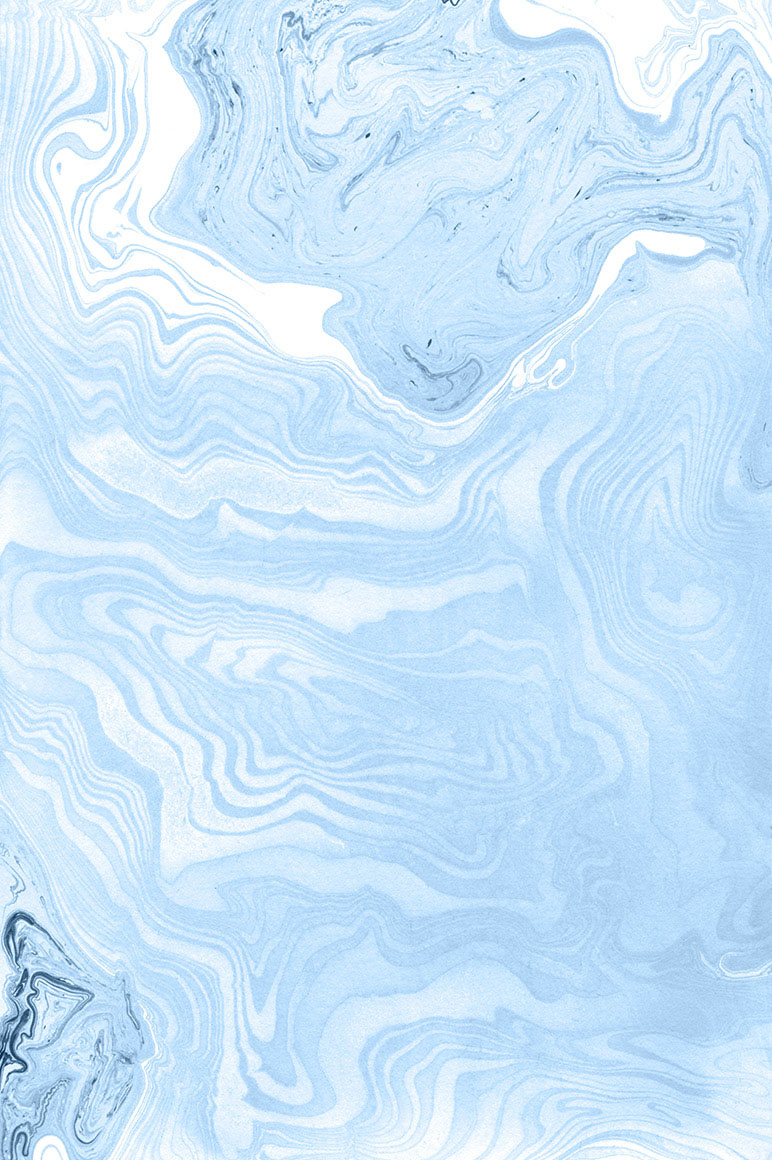
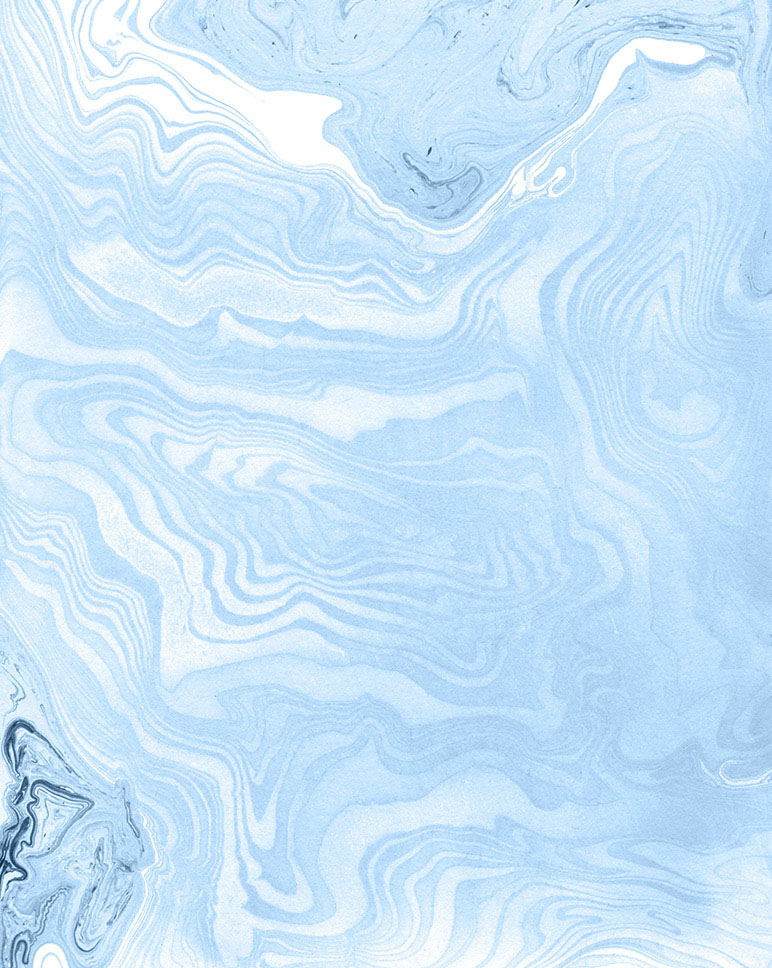
finish result layout

diff --git a/assets/css/style.css b/assets/css/style.css
@@ -22,6 +22,14 @@ body {
     -o-background-size: cover;
     -webkit-transition-timing-function: background 1.5s linear;
     transition: background 1s linear;
+
+ 
+    -webkit-transition: -webkit-transform  background 1.5s linear;
+
+    -moz-transition: -moz-transform  background 1.5s linear;
+
+    transition: -webkit-transform  background 1.5s linear;
+    
 }
 
 .vnTxt {
@@ -82,7 +90,7 @@ h1#vn {
     font-family: 'Atmostphere', Arial, sans-serif;
     letter-spacing: 1.2em;
     font-size: 100px;
-    color: #FF8C22;
+    color: #FE7900;
     position: absolute;
     margin: 160px auto 0 -412px;
     top: 0;
@@ -91,12 +99,9 @@ h1#vn {
     left: 0px;
 }
 
-br.test {
-    display: none;
-}
 
 .fa-play {
-    color: #FF8C22;
+    color: #FE7900;
     /* color: #FEE098; */
     animation: pulse2 .4s infinite;
     cursor: pointer!important;
@@ -132,13 +137,13 @@ p.multiChoice::after {
 }
 
 h1.countDown {
-    color: #FF8C22;
+    color: #FE7900;
     font-weight: 600;
     margin-top: 15px;
 }
 
 .abcd {
-    color: #FF8C22;
+    color: #FE7900;
     font-weight: bold;
     padding-bottom: 5px;
 }
@@ -168,7 +173,68 @@ p#correctAns {
 }
 
 
-/*-------------MEDIA QUERIES-------------*/
+
+/* ===========result section ========== */
+
+#resultBox {
+    width: 230px;
+    height: 450px;
+    border: solid 1.5px #fff;
+    position: absolute;
+    margin: auto;
+    top: -80px;
+    right: 0;
+    bottom: 0;
+    left: 0;
+
+}
+
+
+h4#result {
+    font-size: 15px;
+    letter-spacing: 0.15em;
+    color: #fff;
+    text-align: justify;
+    text-transform: uppercase;
+    line-height: 2.2em;
+    margin: 25px auto 0px 20px;
+  
+}
+
+h4#again{
+    font-size: 15px;
+    color: #fff;
+    text-align: center;
+    text-transform: uppercase;
+    line-height: 3em;
+    top: 97%;
+    left: 48.5%;
+    position: absolute;
+    -ms-transform: translate(-48%, -48%);
+    transform: translate(-48%, -48%);
+
+}
+
+h1#resultTxt {
+    text-transform: uppercase;
+    text-align: center;
+    font-family: 'Atmostphere', Arial, sans-serif;
+    letter-spacing: 1.25em;
+    font-size: 100px;
+    color: #FE7900;
+    position: absolute;
+    margin:200px auto 0 -430px;
+    top: 0;
+    right: 0;
+    bottom: 0;
+    left: 0px;
+}
+
+
+
+
+
+/*================================================ MEDIA QUERIES ================================================*/
 /* Custom, iPhone Retina */
 @media only screen and (max-width: 320px) {
     
@@ -191,16 +257,27 @@ p#correctAns {
             line-height: 80px!important;
             margin: 150px auto 0 15px!important;
             text-align: center!important;
-            color:#FF8C22;
+            color:FE7900;
 
         }
 
+
+        h1#resultTxt {
+            font-size: 45px!important;
+            letter-spacing: 0.3em!important;
+            line-height: 70px!important;
+            margin: 180px auto 0 10px!important;
+            text-align: center!important;
+            color:#FE7900;
+        }
+
         .fa-play {
-            color: #FF8C22;
+            color: #FF7000;
            
         }
 
 
+        /* ================== question section ============== */
         #questionDisplay {
             width: auto;
             position: relative!important;
@@ -245,6 +322,13 @@ p#correctAns {
 
         }
 
+        h1#resultTxt {
+            font-size: 50px!important;
+            margin: 185px auto 0 15px!important;
+            letter-spacing: 0.3em;
+            line-height: 1.3em;
+        }
+
         /* ================== answer section ============== */
           h3#rightOrWrong, p#correctAns, .questionNum {
             margin-top:-40px;
@@ -258,12 +342,20 @@ p#correctAns {
             
         }
 
-        #imgage-holder {
-            margin-top:30px;
+        #image-holder {
+            margin-top:35px!important;
         }
         
 
     
+    }
+
+    @media only screen and (max-width: 1024px){
+        h1#resultTxt {
+            font-size: 90px;
+            margin: 200px auto 0 -370px;
+            
+        }
     }
     
     

diff --git a/index.html b/index.html
@@ -110,7 +110,7 @@
                     <p id="correctAns">The correct<br class="visible-md hidden-xs"> answer is<br class="hidden-xs"/> Nha Trang</p>
                 </div>
                 <div class="col-md-5">
-                    <img src="assets/images/nhaTrang.jpg" alt="" class="img-responsive" id="imgage-holder">
+                    <img src="assets/images/nhaTrang.jpg" alt="" class="img-responsive" id="image-holder">
                 </div>
                 
                 <!-- <div class="col-sm-1 hidden-xs"></div> -->
@@ -121,6 +121,19 @@
                     <h4>10</h4>
                 </div>
 
+            </div>
+        </div>
+
+        <!-- answers display -->
+        <div class="containter-fluid">
+            <div class="row">
+                <div id="resultBox">
+                    <h4 id="result">correct answer:7</h4>
+                    <h4 id="result">Wrong answer: </h4>
+                    <h4 id="result">No answer:3</h4>
+                    <h1 id="resultTxt">Re<br class="visible-xs visible-sm hidden-md">sults</h1>
+                    <h4 id="again">A<br>G<br>A<br>I<br>N<br><i class="fas fa-play fa-rotate-90 fa-sm"></i></h4>
+                </div>
             </div>
         </div>
 

diff --git a/assets/js/app.js b/assets/js/app.js
@@ -1,16 +1,28 @@
   $(document).ready(function () {
         $('#questionDisplay').hide();
         $('#answerDisplay').hide();
+        $('#resultBox').hide();
 
         $('#start').on('click', function () {
         $('#box').hide();
-        $('body').css('background-image', 'url("assets/images/answerBg3.jpg")');
-        $("body").css({"background-position":"center top"})
+        $('body').css('background-image', 'url("assets/images/answerBg.jpg")');
+        $("body").css({"background-position":"center center"})
         $('#questionDisplay').delay(1200).animate({height: 'toggle', opacity: '1'}, 1000);
 
         $('.multiChoice').on('click', function () {
             $('#questionDisplay').hide();
             $('#answerDisplay').animate({height: 'toggle', opacity: '1'}, 1000);
-        })
+        });
+
+        $('#image-holder').on('click', function () {
+            $('#questionDisplay').hide();
+            $('#answerDisplay').hide();
+            $('body').css('background-image', 'url("assets/images/halong1.jpg")');
+            // $("body").css({"background-position":"right center"});
+            $('#resultBox').animate({width: 'toggle'}, 1000);
+            
+        });
+        
     });
+    
 });
